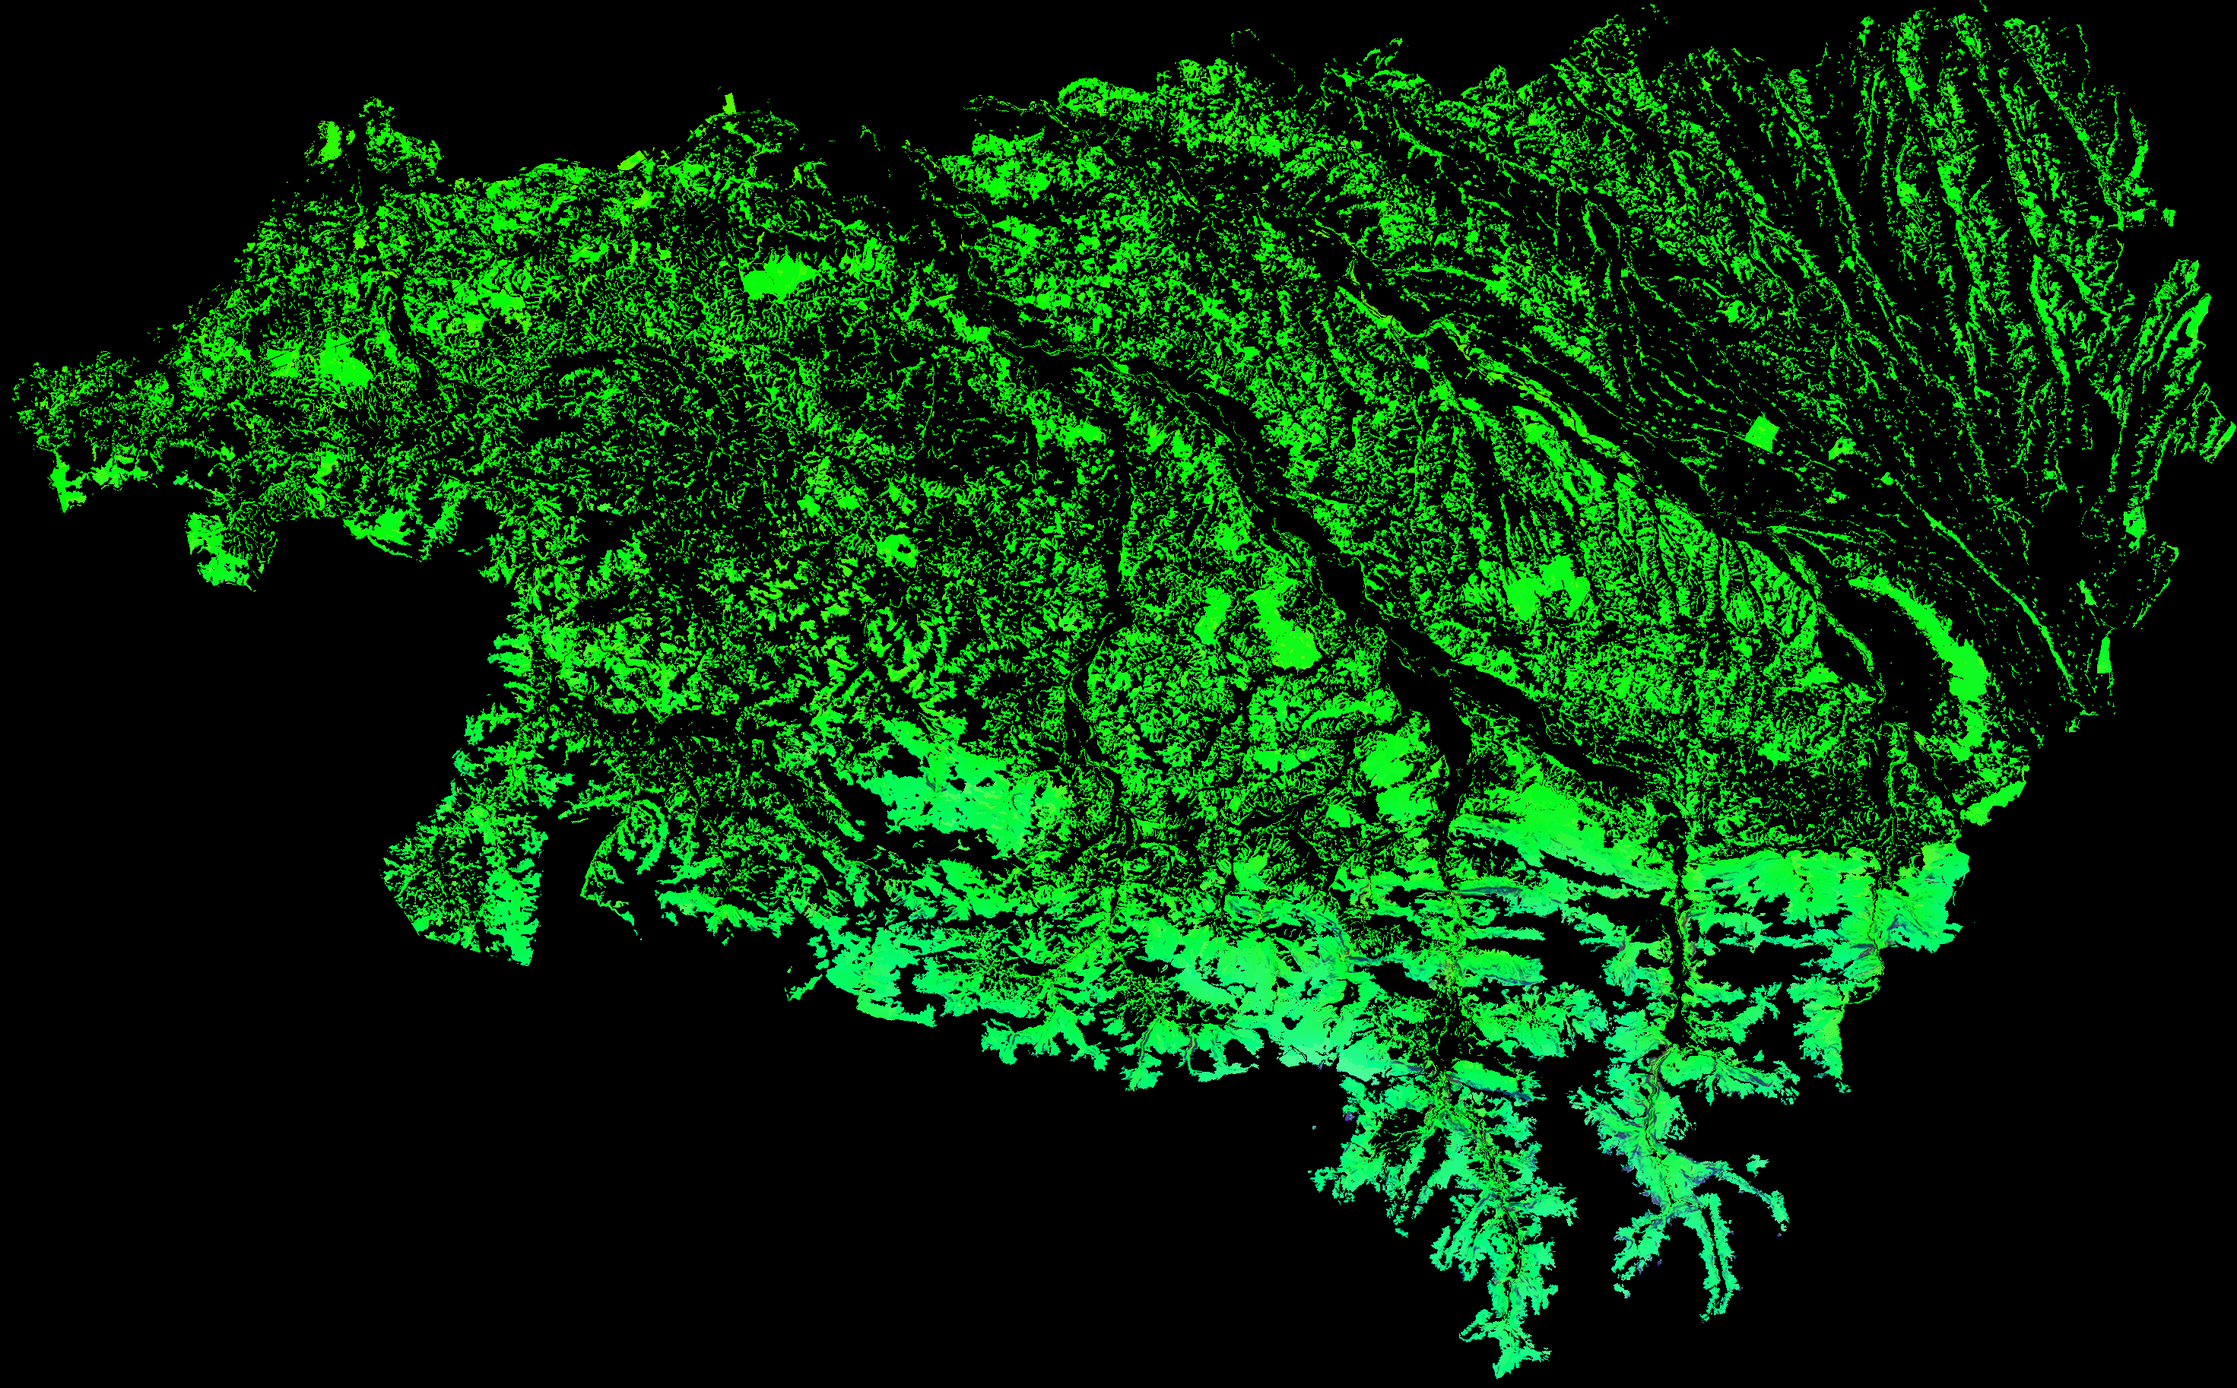
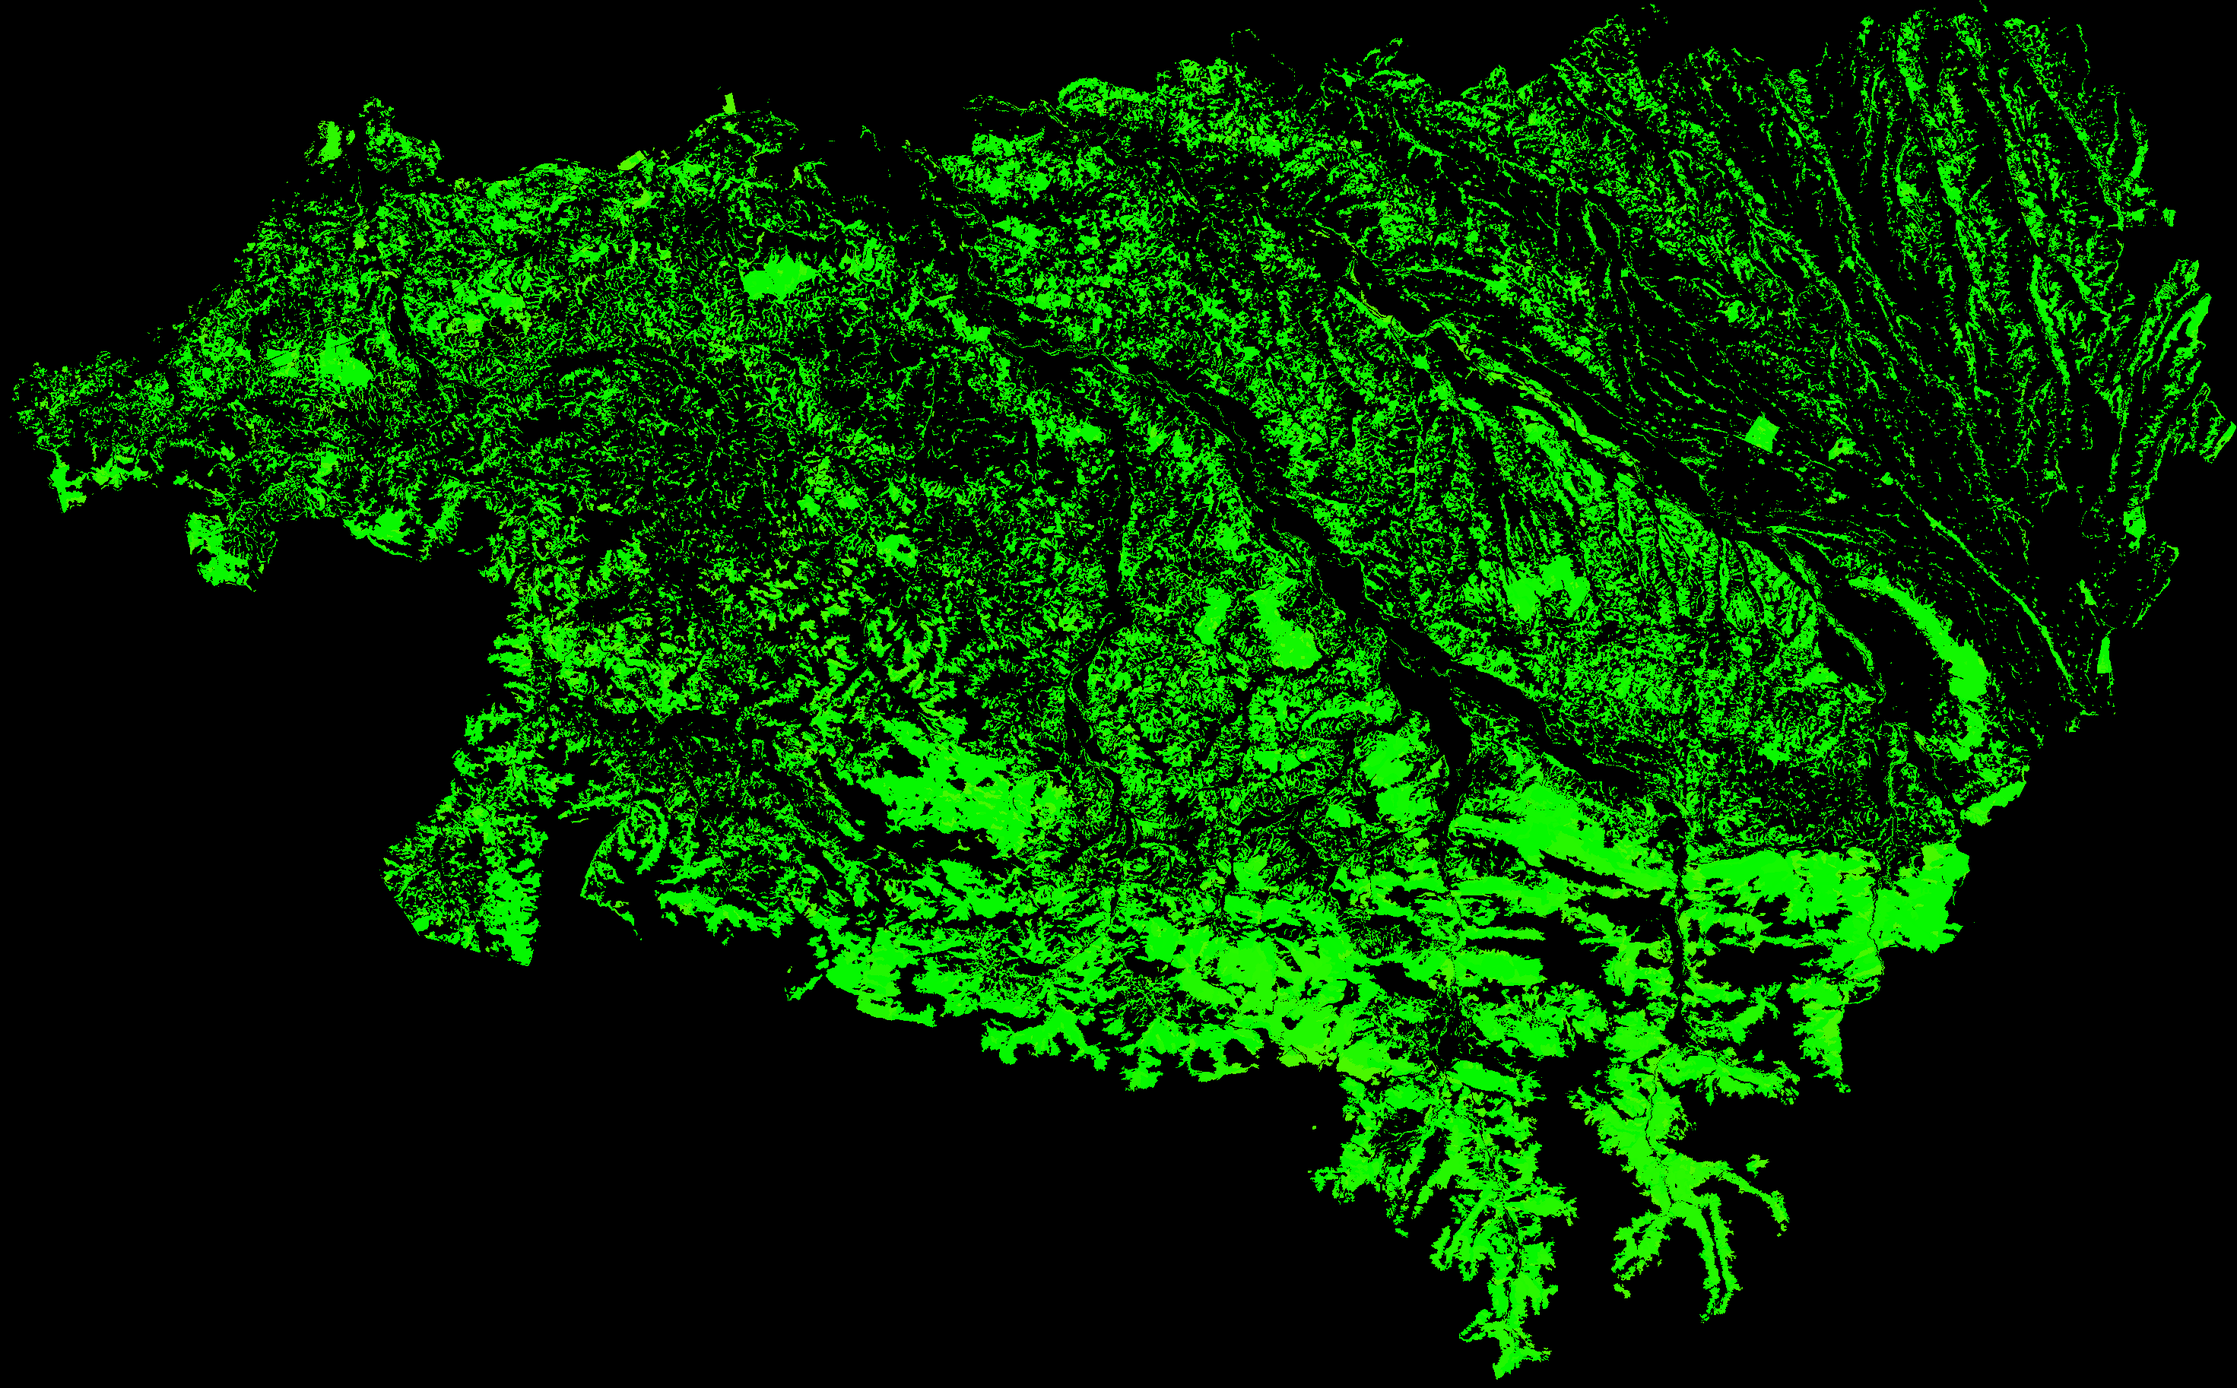
Versant et exposition : un versant nord est plus frais et garde l'humidité, un versant sud se réchauffe
Effet calculé depuis le relief (composante nord de la pente), modulé selon la saison
(soleil bas en automne-hiver). Visible sur la carte et expliqué dans le détail d'un point.

Claude-Session: https://claude.ai/code/session_01UKRxg8nTr2uk1ELvF3AArY

diff --git a/docs/app.js b/docs/app.js
@@ -123,6 +123,9 @@ function altPoint(lat, lon) { // altitude météo interpolée, faute de relief
   const g = M.grille; const i = Math.round((lat - g.lat0) / g.dlat), j = Math.round((lon - g.lon0) / g.dlon);
   const n = nodeIdx[i * g.nlon + j]; return n >= 0 ? M.points[n].alt : 600;
 }
+// canal vert de la carte des milieux : relief (frein 0-1) et versant (-1 sud … +1 nord)
+const relF = (g) => (G.codage === 2 ? (g >> 4) / 15 : g / 250);
+const nordF = (g) => (G.codage === 2 ? ((g & 15) - 7) / 7 : 0);
 const altPixel = (b, lat, lon) => (b >> 1 ? ((b >> 1) - 1) * 24 + 12 : altPoint(lat, lon));
 
 /* ---------- rendu ---------- */
@@ -131,6 +134,7 @@ function dessine() {
   const t0 = performance.now();
   const out = new ImageData(W, H), o = out.data;
   const lut = LUT[state.esp];
+  const kVersant = M ? VERSANT_K[M.mois[M.j0 + state.jour] - 1] / -GRAD : 0;
   const pousse = state.mode === "pousse" && M;
   // cache de l'indice météo sur une grille grossière (8 px = 400 m) pour la vitesse
   const S = 8, cw = Math.ceil(W / S) + 1, chh = Math.ceil(H / S) + 1;
@@ -142,10 +146,12 @@ function dessine() {
       if (code < 4) continue;
       const b = HAB[p + 2];
       if (state.prive && !(b & 1)) continue;
-      let v = lut[code] * HAB[p + 1] / 250, rgb;
+      const g = HAB[p + 1];
+      let v = lut[code] * relF(g), rgb;
       if (v <= 0) continue;
       if (pousse) {
-        const alt = altPixel(b, lat, colLon[k]);
+        // versant : un versant nord se comporte comme un terrain plus haut (plus frais), un versant sud comme plus bas
+        const alt = altPixel(b, lat, colLon[k]) + kVersant * nordF(g);
         const key = ((r / S) | 0) * cw * 40 + ((k / S) | 0) * 40 + Math.min(39, (alt / 50) | 0);
         let m = cache.get(key);
         if (m === undefined) { m = indiceMeteo(lat, colLon[k], alt, state.jour, state.esp); cache.set(key, m); }
@@ -242,7 +248,7 @@ function pixel(latlng) {
   const k = Math.floor(((latlng.lng - lo0) / (lo1 - lo0)) * W);
   const r = Math.floor(((mercY(la1) - mercY(latlng.lat)) / (mercY(la1) - mercY(la0))) * H);
   if (k < 0 || r < 0 || k >= W || r >= H) return null;
-  const p = (r * W + k) * 4; return { code: HAB[p], rel: HAB[p + 1], b: HAB[p + 2] };
+  const p = (r * W + k) * 4; return { code: HAB[p], rel: relF(HAB[p + 1]), nord: nordF(HAB[p + 1]), b: HAB[p + 2] };
 }
 function graphe(vals, auj) {
   const w = 220, h = 54, bw = w / vals.length;
@@ -329,7 +335,7 @@ function detail(e) {
   if (repere) repere.setLatLng(ll); else repere = L.circleMarker(ll, { radius: 8, color: "#fff", weight: 3, fillColor: "#2b2118", fillOpacity: 1 }).addTo(map);
   const sp = E.especes[state.esp];
   let em = sp.meteo;
-  const hab = px.code >= 4 ? LUT[state.esp][px.code] * px.rel / 250 : 0;
+  const hab = px.code >= 4 ? LUT[state.esp][px.code] * px.rel : 0;
   const alt = M || px.b >> 1 ? Math.round(altPixel(px.b, ll.lat, ll.lng)) : null;
   const nom = foretPublique(ll);
   const adj = alt !== null ? reglagePour(state.esp, alt) : null;
@@ -344,14 +350,14 @@ function detail(e) {
     const mil = E.milieux[px.code >> 2], sol = E.sols[px.code & 3];
     const fe = sp.essences[px.code >> 2], fs = sp.sols[px.code & 3];
     raisons.push(ligne(hab, `Milieu : ${mil.toLowerCase()}, ${sol.toLowerCase()}`,
-      `Arbres ${fe >= 0.8 ? "très favorables" : fe >= 0.5 ? "favorables" : fe >= 0.25 ? "peu favorables" : "défavorables"} (${Math.round(fe * 100)} %), sol ${Math.round(fs * 100)} %${px.rel < 240 ? `, relief ${Math.round(px.rel / 2.5)} % (pente forte ou altitude)` : ""}. ${sp.nom} : ${sp.arbres.toLowerCase()}.`));
+      `Arbres ${fe >= 0.8 ? "très favorables" : fe >= 0.5 ? "favorables" : fe >= 0.25 ? "peu favorables" : "défavorables"} (${Math.round(fe * 100)} %), sol ${Math.round(fs * 100)} %${px.rel < 0.95 ? `, relief ${Math.round(px.rel * 100)} % (pente forte ou altitude)` : ""}. ${sp.nom} : ${sp.arbres.toLowerCase()}.`));
   }
 
   if (M && px.code >= 4) {
     const s = serieLocale(ll.lat, ll.lng);
     if (s) {
       const dT = GRAD * (alt - s.alt);
-      const r = calculIndice(s.p, s.tm, s.tn, s.e, M.mois, em, dT, true);
+      const r = calculIndice(s.p, s.tm, s.tn, s.e, M.mois, em, dT, true, px.nord);
       const serie = M.jours.map((_, j) => Math.pow(hab, EXPO) * (r.indice[M.j0 + j] || 0));
       const jd = M.j0 + state.jour, d = r.detail[jd], v = serie[state.jour];
       h += `<div class="pt-big">${Math.round(v * 100)}<small>/100</small> <span class="pt-verdict v-${verdict(v).replace(" ", "-")}">${verdict(v)}</span></div>`;
@@ -367,6 +373,12 @@ function detail(e) {
       const [t0, t1, t2, t3] = em.t;
       raisons.push(ligne(d.temp, "Température du sol",
         `${f1(d.tsol)} °C estimés à ${alt} m sur 10 jours ; idéal ${t1}-${t2} °C, rien sous ${t0} ou au-dessus de ${t3} °C${d.tsol > t2 ? " : trop chaud" : d.tsol < t1 ? " : trop froid" : ""}.`));
+      if (Math.abs(px.nord) >= 0.12) {
+        const ecart = VERSANT_K[M.mois[jd] - 1] * px.nord;
+        raisons.push(ligne(0.75, `Versant ${px.nord > 0 ? "nord" : "sud"}`, px.nord > 0
+          ? `Exposé au nord : sol estimé ${f1(ecart)} °C plus frais qu'à plat en cette saison, et qui sèche moins vite. Avantage par temps chaud, retard quand il fait froid.`
+          : `Exposé au sud : sol estimé ${f1(-ecart)} °C plus chaud qu'à plat en cette saison, mais qui sèche plus vite. Avantage en fin de saison et en altitude.`));
+      }
       raisons.push(ligne(d.gel, "Gel", d.tmin < 0.5 ? `Gelée le ${dateCourte(M.dates[d.jgel])} (${f1(d.tmin)} °C) : les poussées sont freinées.` : `Aucune gelée ces 5 derniers jours (minimum ${f1(d.tmin)} °C).`));
       if (adj && (adj.dT || adj.k !== 1))
         raisons.push(ligne(1, "Réglage appris sur vos sorties", `${adj.dT ? `températures idéales décalées de ${adj.dT > 0 ? "+" : ""}${adj.dT} °C` : ""}${adj.dT && adj.k !== 1 ? ", " : ""}${adj.k !== 1 ? `besoin en pluie ×${f1(adj.k)}` : ""} (${adj.n} récoltes, ${adj.n_vides} sorties vides).`));

diff --git a/docs/indice.js b/docs/indice.js
@@ -2,6 +2,8 @@
    pousse = pluie déclenchante × humidité du sol × température du sol × gel, avec persistance, × saison */
 "use strict";
 const RESERVE = 100; // réserve utile du sol forestier (mm)
+// effet du versant sur la température du sol (°C pour un versant nord « pur »), plus fort quand le soleil est bas
+const VERSANT_K = [5, 5, 4, 3, 2.5, 2, 2, 2.5, 3, 4, 5, 5];
 
 function trapeze(x, a, b, c, d) {
   return Math.min(Math.max(Math.min((x - a) / (b - a), (d - x) / (d - c)), 0), 1);
@@ -9,15 +11,17 @@ function trapeze(x, a, b, c, d) {
 
 /* P, Tm, Tn, E : séries journalières (mm, °C, °C, mm) ; mois : mois (1-12) de chaque jour ;
    e : paramètres « meteo » de l'espèce ; dT : correction de température pour l'altitude (°C).
-   detail = true : renvoie aussi les facteurs de chaque jour. */
-function calculIndice(P, Tm, Tn, E, mois, e, dT, detail) {
+   detail = true : renvoie aussi les facteurs de chaque jour.
+   nord : orientation du versant, de -1 (sud raide) à +1 (nord raide), 0 = plat. */
+function calculIndice(P, Tm, Tn, E, mois, e, dT, detail, nord = 0) {
   const n = P.length;
-  const W = new Float32Array(n), Ts = new Float32Array(n);
-  const kE = Math.min(Math.max(1 + dT * 0.04, 0.5), 1.5);
-  let w = RESERVE / 2, ts = Tm[0] + dT;
+  const W = new Float32Array(n), Ts = new Float32Array(n), dTj = new Float32Array(n);
+  for (let i = 0; i < n; i++) dTj[i] = dT - VERSANT_K[mois[i] - 1] * nord;
+  let w = RESERVE / 2, ts = Tm[0] + dTj[0];
   for (let i = 0; i < n; i++) {
+    const kE = Math.min(Math.max(1 + dTj[i] * 0.04, 0.5), 1.5) * (1 - 0.35 * nord);
     w = Math.min(RESERVE, Math.max(0, w + P[i] - 0.7 * E[i] * kE));
-    ts += 0.25 * (Tm[i] + dT - ts);
+    ts += 0.25 * (Tm[i] + dTj[i] - ts);
     W[i] = w; Ts[i] = ts;
   }
   const [a, b, c, d] = e.lag, hm = e.humide_min ?? 0.3;
@@ -34,7 +38,7 @@ function calculIndice(P, Tm, Tn, E, mois, e, dT, detail) {
     let tsm = 0; for (let k = j - 10; k <= j; k++) tsm += Ts[k]; tsm /= 11;
     const temp = trapeze(tsm, ...e.t);
     let tmin = Infinity, jgel = -1;
-    for (let k = j - 4; k <= j; k++) if (Tn[k] + dT < tmin) { tmin = Tn[k] + dT; jgel = k; }
+    for (let k = j - 4; k <= j; k++) if (Tn[k] + dTj[k] < tmin) { tmin = Tn[k] + dTj[k]; jgel = k; }
     const gel = tmin < -2 ? 0.2 : tmin < 0.5 ? 0.6 : 1;
     const brut = declenche * humide * temp * gel;
     if (brut >= m * e.persist) { if (brut > 0.05 && (m * e.persist < 0.05 || debut < 0)) debut = j; m = brut; }

diff --git a/carnet/tache.py b/carnet/tache.py
@@ -43,13 +43,15 @@ class Public:
         if not (0 <= r < H and 0 <= k < W):
             return None
         R, Gc, B = self.hab[r, k]
-        return {"code": R, "rel": Gc, "alt": ((B >> 1) - 1) * 24 + 12 if B >> 1 else None}
+        v2 = self.G.get("codage") == 2
+        return {"code": R, "rel": (Gc >> 4) / 15 if v2 else Gc / 250, "nord": ((Gc & 15) - 7) / 7 if v2 else 0.0,
+                "alt": ((B >> 1) - 1) * 24 + 12 if B >> 1 else None}
 
     def habitat(self, esp, px):
         if not px or px["code"] < 4:
             return 0.0
         sp = self.E["especes"][esp]
-        return sp["essences"][px["code"] >> 2] * sp["sols"][px["code"] & 3] * px["rel"] / 250
+        return sp["essences"][px["code"] >> 2] * sp["sols"][px["code"] & 3] * px["rel"]
 
     def serie(self, lat, lon):
         """Séries météo interpolées entre les nœuds voisins (comme l'appli)."""
@@ -118,12 +120,13 @@ def apprend(pub, sorties):
                "mois": [int(x[5:7]) for x in dd["time"]]}
         alt = (px or {}).get("alt") or a.get("elevation") or 0
         rec["dT"] = GRAD * (alt - (a.get("elevation") or alt))
+        rec["nord"] = (px or {}).get("nord", 0.0)
         groupes.setdefault((esp, secteur(alt)), []).append(rec)
 
     def score(recs, e):
         rp, rn = [], []
         for r in recs:
-            ix = np.nan_to_num(indice(r["P"], r["Tm"], r["Tn"], r["E"], r["mois"], None, r["dT"], params=e))
+            ix = np.nan_to_num(indice(r["P"], r["Tm"], r["Tn"], r["E"], r["mois"], None, r["dT"], params=e, nord=r["nord"]))
             saison = ix[40:]  # jours où l'indice est calculable (40 jours de météo nécessaires)
             rang = float((saison < ix[r["jour"]]).mean())
             (rp if r["trouve"] else rn).append(rang)
@@ -181,7 +184,7 @@ def alertes(pub, carnet, reglages, etat):
                 continue
             e = ajuste(pub.E["especes"][esp]["meteo"], reglage_pour(reglages, esp, alt))
             h = pub.habitat(esp, px) or 0.5  # coin hors carte forestière : on fait confiance à votre coin
-            ix = np.nan_to_num(indice(s["p"], s["tm"], s["tn"], s["e"], mois, esp, GRAD * (alt - s["alt"]), params=e))
+            ix = np.nan_to_num(indice(s["p"], s["tm"], s["tn"], s["e"], mois, esp, GRAD * (alt - s["alt"]), params=e, nord=(px or {}).get("nord", 0.0)))
             fut = [(dates[j], round(100 * (h ** EXPO) * ix[j])) for j in range(auj, len(dates))]
             jour, v = max(fut, key=lambda x: x[1])
             liste.append({"coin": c["id"], "nom": c.get("nom", "Coin"), "esp": esp, "jour": jour, "indice": v,

diff --git a/scripts/build_relief.py b/scripts/build_relief.py
@@ -2,7 +2,8 @@
 
 Canaux du PNG (pixel de 50 m, Web Mercator) :
   R = milieu * 4 + sol        (milieu et sol : voir docs/data/especes.json ; 0 = hors forêt)
-  G = facteur de relief 0-250 (pente forte ou altitude au-dessus de la forêt productive)
+  G = relief * 16 + versant  (relief 0-15 : 15 = aucun frein, moins si pente forte ou altitude au-dessus de la forêt ;
+                              versant 0-14 : 7 = terrain plat, 14 = versant nord raide, 0 = versant sud raide)
   B = (altitude // 24 + 1) * 2 + forêt publique (0/1) ; altitude 0 = inconnue
 """
 import argparse, json, os, sys, urllib.request
@@ -39,7 +40,8 @@ def main():
     grid = json.load(open("docs/data/grid.json"))
     b = np.load("build/habitat_base.npz")
     milieu, sol, pub = b["milieu"], b["sol"], b["public"]
-    rel = np.full(milieu.shape, 250.0)
+    rel = np.ones(milieu.shape)
+    nord = np.zeros(milieu.shape)
     alt = np.zeros(milieu.shape, dtype=np.uint8)
     if not a.no_dem:
         dem, px = load_dem(grid, a.cache)
@@ -52,11 +54,21 @@ def main():
         # Au-dessus de 1900 m il n'y a plus de forêt productive
         f *= np.clip(1 - (np.nan_to_num(dem) - 1900) / 200, 0, 1)
         rel *= f
+        # Versant : composante nord de la pente (cos de l'orientation × sin de la pente), de -1 (sud) à +1 (nord).
+        # Les lignes de la grille vont du nord au sud : dz/dligne > 0 signifie que le terrain monte vers le sud,
+        # donc que le versant regarde vers le nord. On lisse un peu le relief avant.
+        from scipy.ndimage import uniform_filter
+        lisse = uniform_filter(np.nan_to_num(dem), size=3)
+        gsud, gest = np.gradient(lisse, px)
+        nord = gsud / np.sqrt(1 + gsud ** 2 + gest ** 2)
         alt = np.where(ok, np.clip(dem // 24 + 1, 1, 127), 0).astype(np.uint8)
         grid["dem"] = "Copernicus GLO-30"
     foret = milieu > 0
     R = np.where(foret, milieu.astype(np.uint16) * 4 + sol, 0).astype(np.uint8)
-    G = np.where(foret, rel.round(), 0).astype(np.uint8)
+    q = np.clip(np.round(rel * 15), 0, 15).astype(np.uint16)
+    v = np.clip(np.round(nord * 7) + 7, 0, 14).astype(np.uint16)
+    G = np.where(foret, q * 16 + v, 0).astype(np.uint8)
+    grid["codage"] = 2
     B = np.where(foret, alt.astype(np.uint16) * 2 + pub, 0).astype(np.uint8)
     img = np.dstack([R, G, B])
     Image.fromarray(img, "RGB").save("docs/data/habitat.png", optimize=True)

diff --git a/scripts/indice.py b/scripts/indice.py
@@ -40,13 +40,19 @@ def ajuste(e, adj):
 def secteur(alt):
     return "cote" if alt < 300 else "piemont" if alt < 900 else "montagne"
 
-def indice(P, Tm, Tn, ET0, mois, espece, dT=0.0, params=None):
+# Effet du versant sur la température du sol (°C pour un versant nord « pur »), plus fort quand le soleil est bas
+VERSANT_K = [5, 5, 4, 3, 2.5, 2, 2, 2.5, 3, 4, 5, 5]
+
+def indice(P, Tm, Tn, ET0, mois, espece, dT=0.0, params=None, nord=0.0):
     """Indice jour par jour. dT : correction de température pour l'altitude visée (°C).
-    params : paramètres météo de l'espèce déjà ajustés (sinon ceux de especes.json)."""
+    params : paramètres météo de l'espèce déjà ajustés (sinon ceux de especes.json).
+    nord : orientation du versant, de -1 (versant sud raide) à +1 (versant nord raide), 0 = plat."""
     e = params or ESPECES[espece]
     P, ET0 = np.nan_to_num(np.asarray(P, float)), bouche_trous(ET0)
+    dT = dT - np.array([VERSANT_K[m - 1] for m in mois]) * nord  # versant nord plus frais, versant sud plus chaud
     Tm, Tn = bouche_trous(Tm) + dT, bouche_trous(Tn) + dT
-    ET0 = np.nan_to_num(ET0) * np.clip(1 + dT * 0.04, 0.5, 1.5)  # plus frais en altitude : moins d'évaporation
+    # plus frais (altitude, versant nord) : moins d'évaporation ; le versant nord garde aussi mieux l'humidité
+    ET0 = np.nan_to_num(ET0) * np.clip(1 + dT * 0.04, 0.5, 1.5) * (1 - 0.35 * nord)
     n = len(P)
     # réserve en eau du sol et température du sol (moyenne glissante de l'air)
     W, Ts = np.zeros(n), np.zeros(n)
